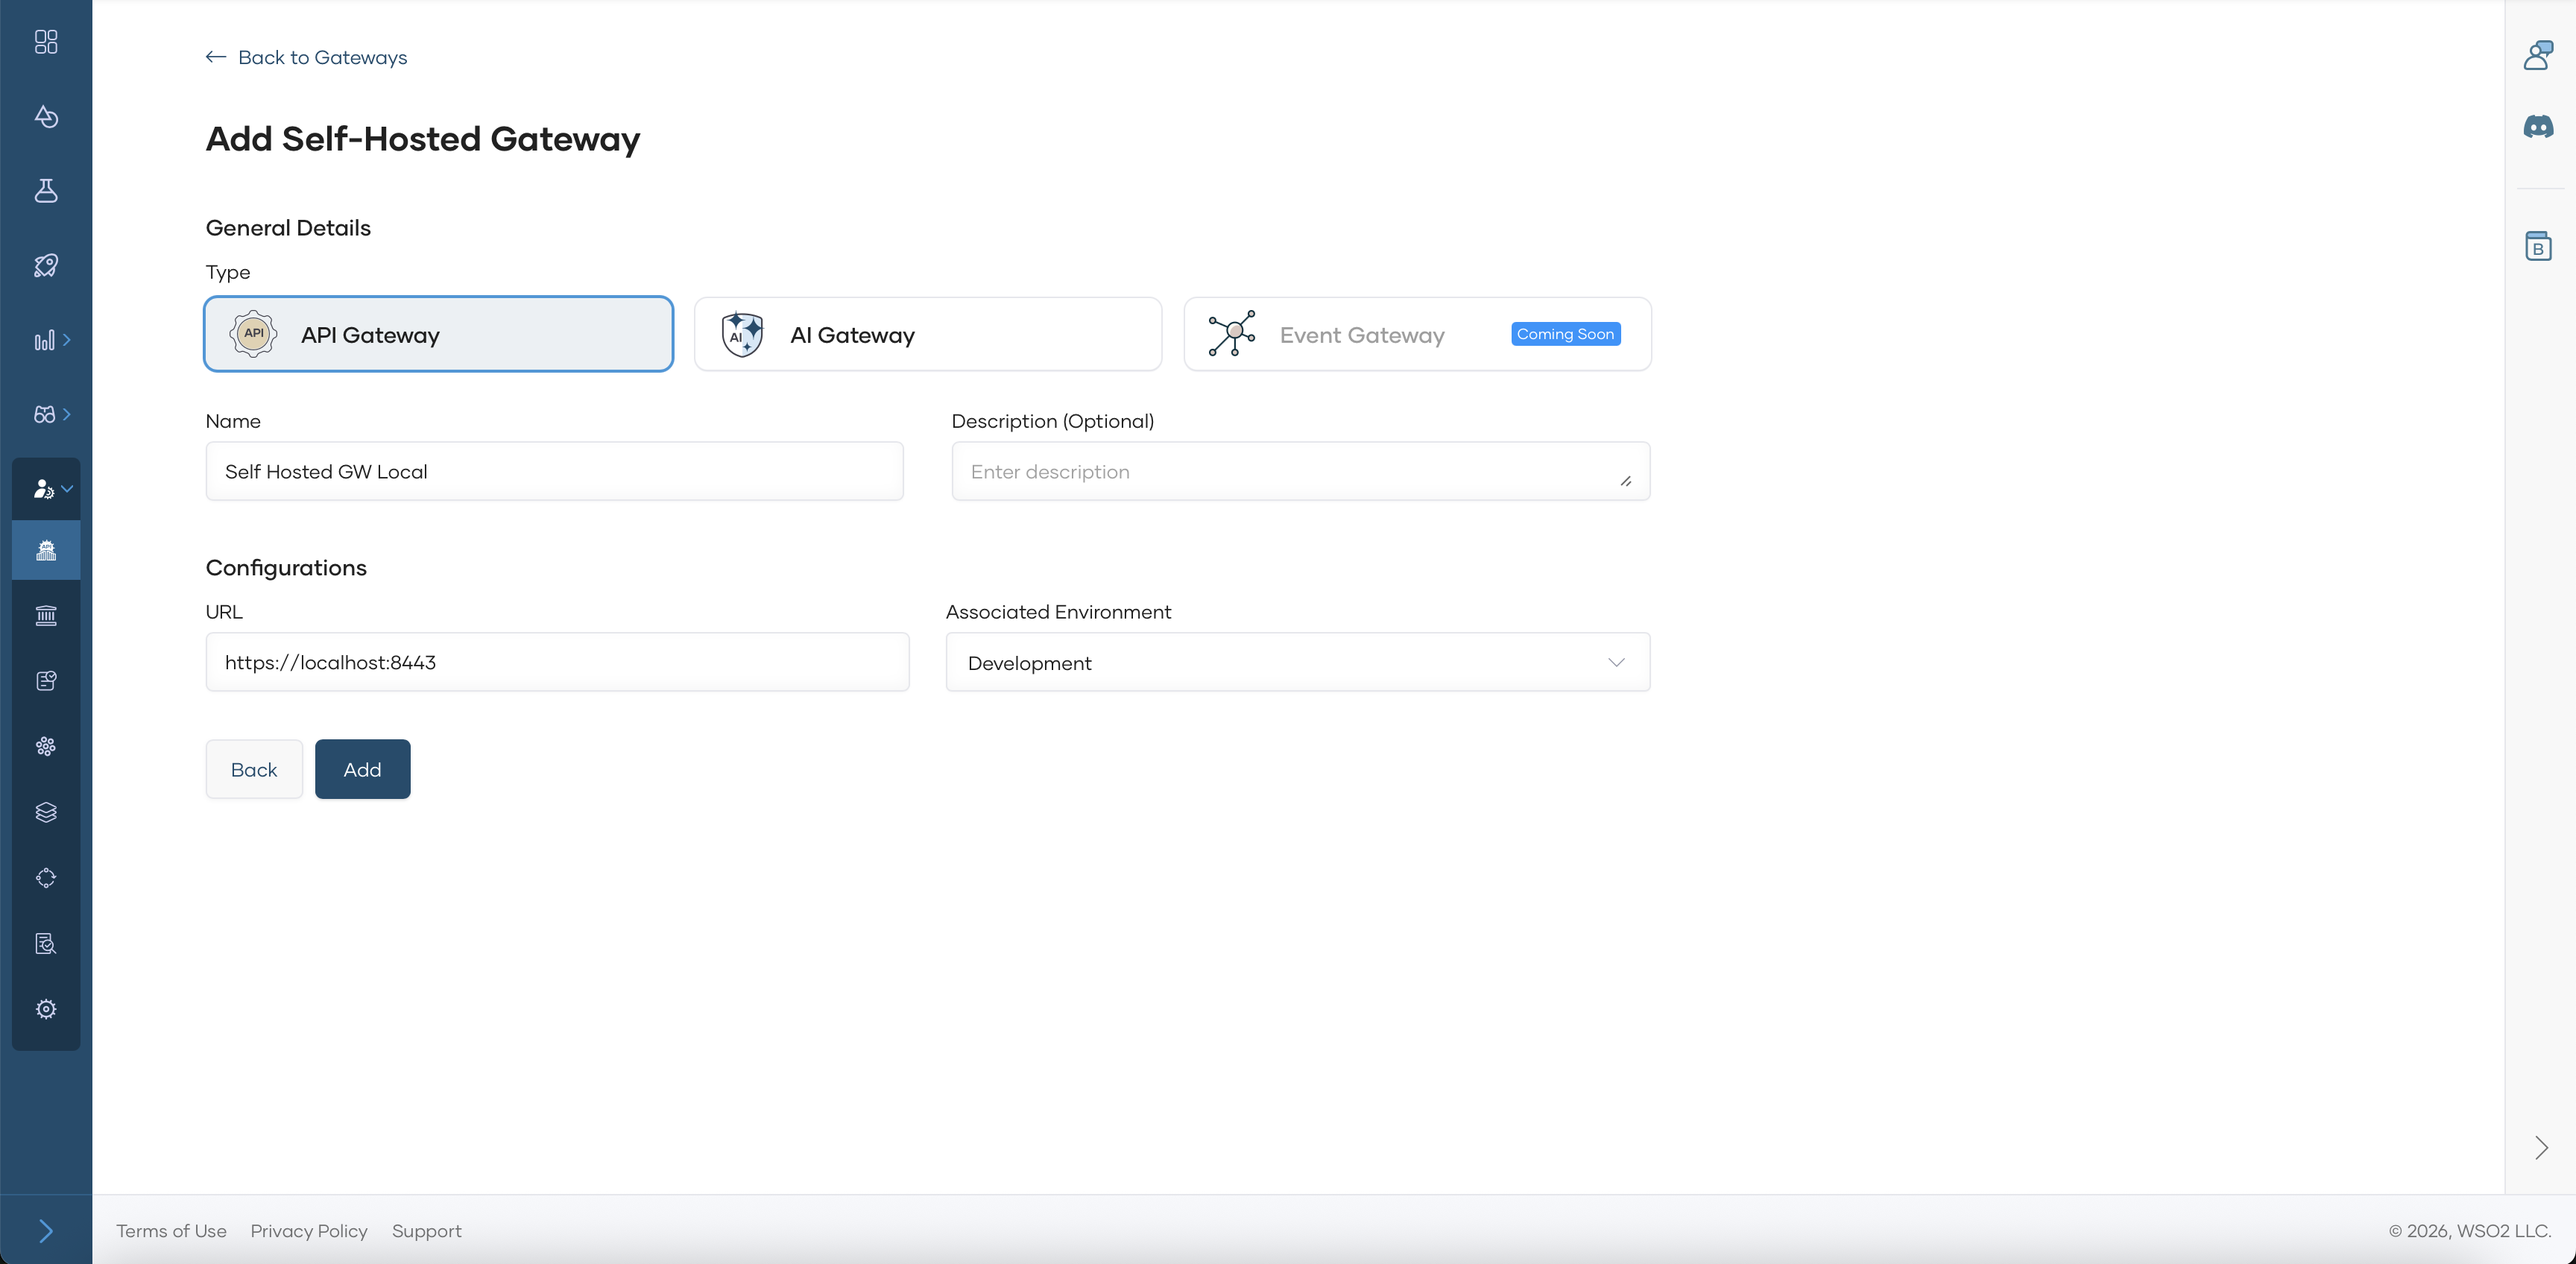
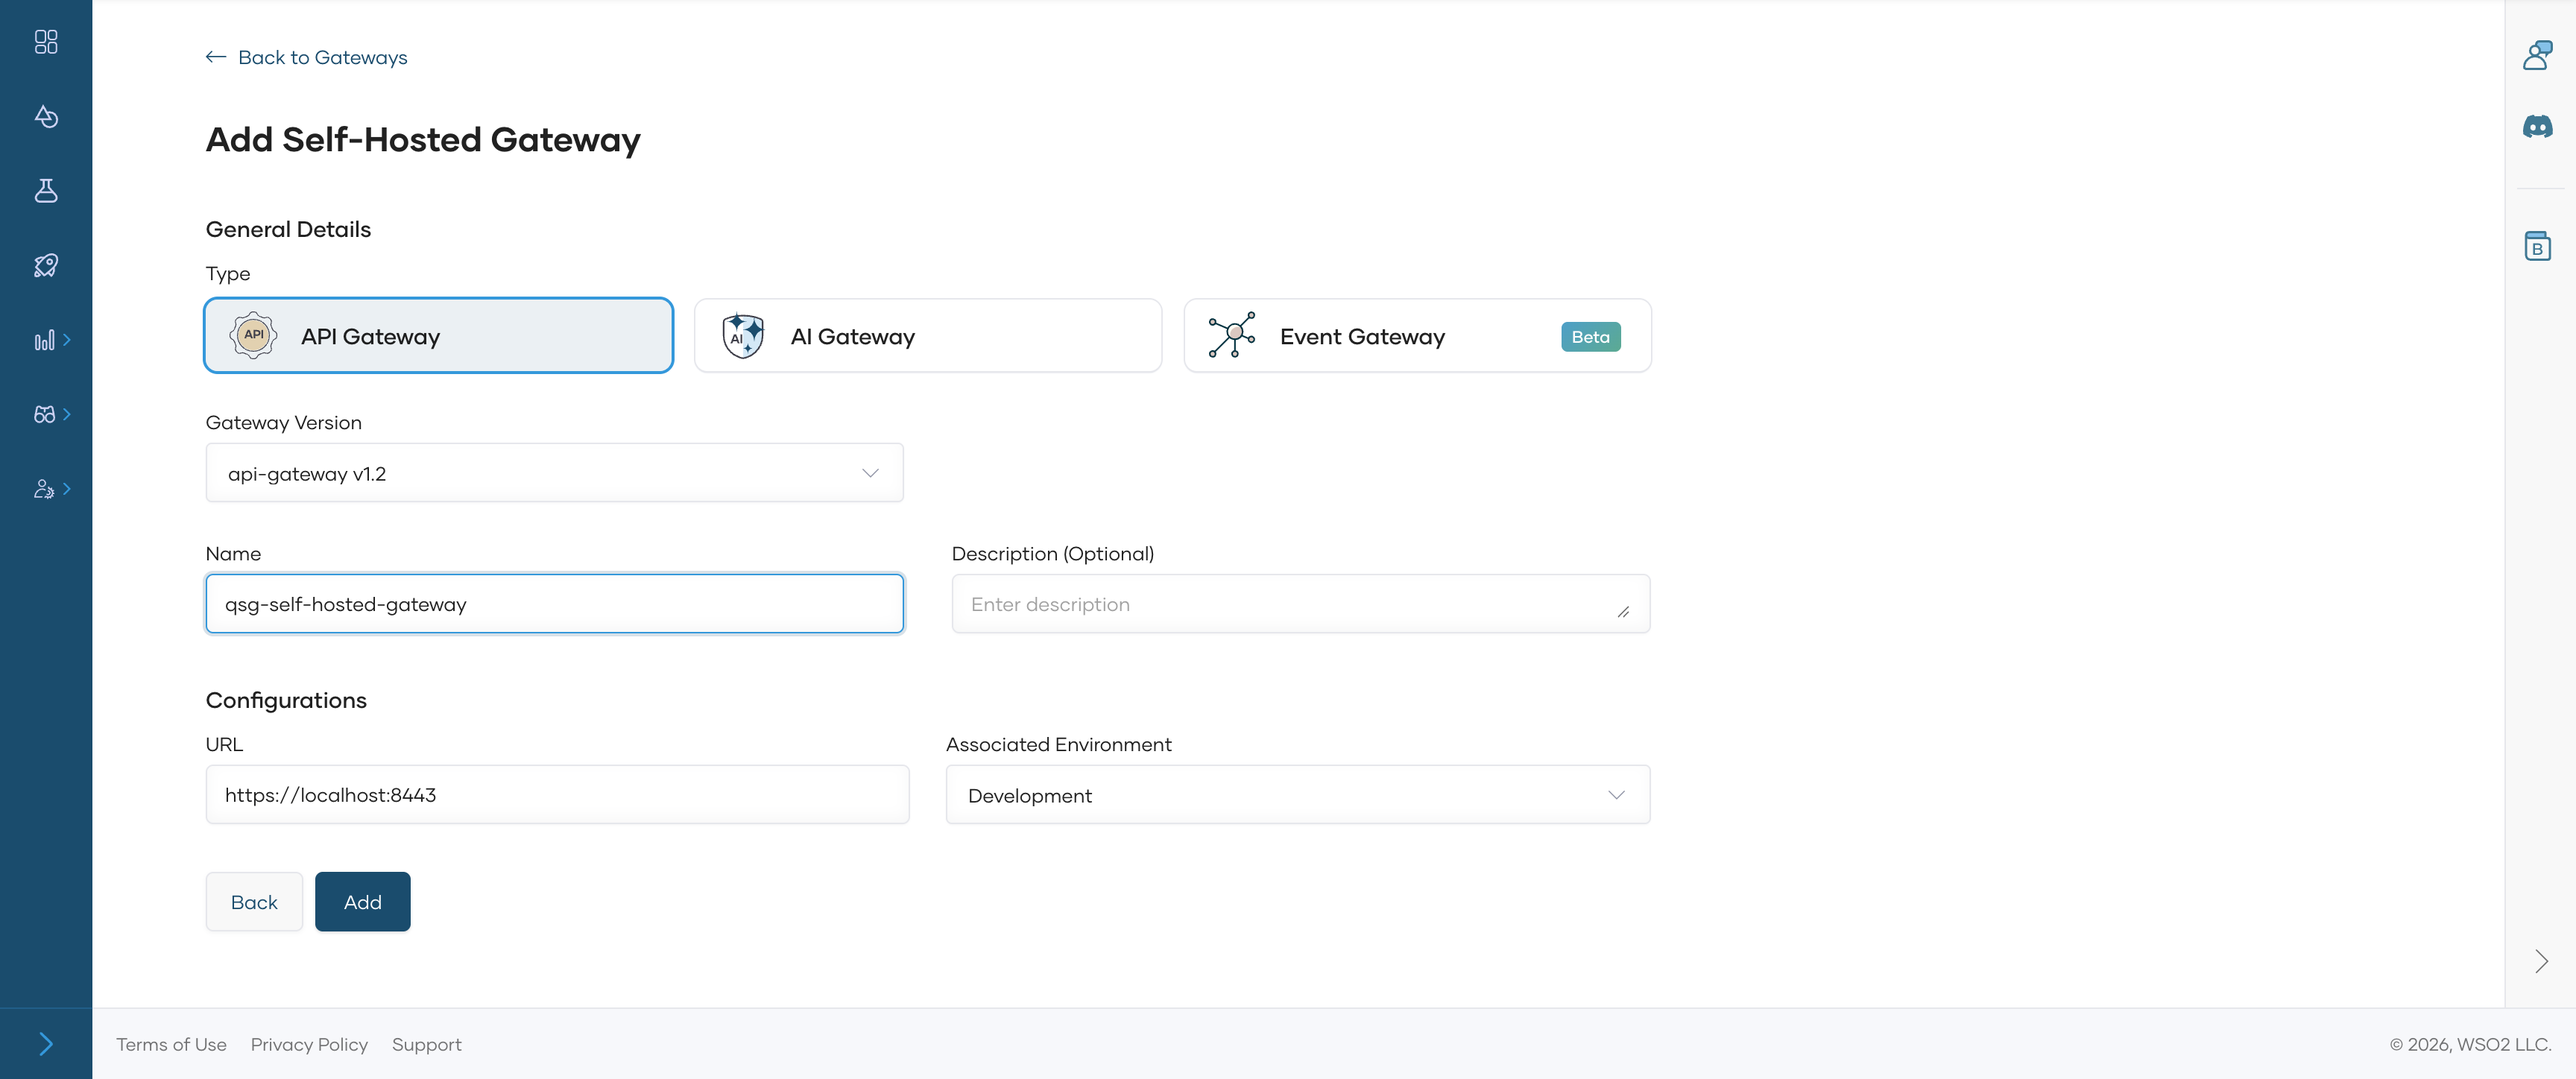
Update quick start guides and images for AI Gateway and API Platform

diff --git a/en/docs/cloud/introduction/quick-start-guide.md b/en/docs/cloud/introduction/quick-start-guide.md
@@ -65,8 +65,8 @@ In this tutorial, you will use API Platform to expose a service as an API proxy 
    ```http
    https://raw.githubusercontent.com/wso2/docs-bijira/refs/heads/main/en/docs/assets/files/sample-api.yaml
    ```
-3. **Create API Proxy from Contract** page will be opened. Click **Create** to complete the API proxy creation process.
-    ![Create API Proxy from Contract form with HTTP type, name Sample API, identifier, version, base path, description, target URL, and External and Internal access mode options](../../assets/img/introduction/create-api-proxy-from-contract.png)
+3. **Create API Proxy from Contract** page will be opened. Under **Gateway Type**, select **WSO2 Managed Gateway**, and then click **Create** to complete the API proxy creation process.
+    ![Create API Proxy from Contract form with name Sample API, identifier, version, base path, description, HTTP type, WSO2 Managed Gateway selected, and target URL](../../assets/img/introduction/create-api-proxy-from-contract.png)
 
 ## Step 3: Test the API Proxy
 
@@ -112,7 +112,7 @@ Now that your API is deployed in both development and production environments an
 
 1. In the left navigation menu, click **Develop** and then click **Lifecycle**. This opens the **Lifecycle** page, where you can see the different lifecycle stages of the API. The current lifecycle stage is **Created**.
 2. Click **Publish**.
-3. In the **Publish API** dialog, click **Confirm** to proceed with publishing the API with the specified display name. If you want to change the display name, make the necessary changes and then click **Confirm**. This changes the API lifecycle state to **Published**.
+3. In the **Publish API** dialog, under **Endpoints**, select the API's URL from the **Production Endpoint URL** list. Then click **Confirm** to proceed with publishing the API with the specified display name. If you want to change the display name, make the necessary changes and then click **Confirm**. This changes the API lifecycle state to **Published**.
 
 You can observe that the API lifecycle stage has changed to **Published**. Now the API is available for consumption. API consumers can consume the API via the API Platform Developer Portal.
 
@@ -122,7 +122,7 @@ You can observe that the API lifecycle stage has changed to **Published**. Now t
 To generate credentials for the published API and invoke it via the Developer Portal, follow these steps.
 
 1. In the **Lifecycle Management** pane, click **Go to DevPortal**. This takes you to the Sample API published to the API Platform Developer Portal.
-    ![Lifecycle page showing API in Published state with lifecycle flow diagram including Created, Pre-released, Published, Deprecated, Blocked, and Retired stages, and Go to Devportal button highlighted](../../assets/img/introduction/go-to-developer-portal.png)
+    ![Lifecycle page showing the API in the Published state, with Created, Pre-released, Published, Deprecated, and Retired stages, and Go to Devportal highlighted](../../assets/img/introduction/go-to-developer-portal.png)
 2. Subscribe to the API and Generate credentials.
     1. In the Developer Portal left navigation menu, click **Applications**.
     2. Click **Create**.

diff --git a/en/docs/cloud/ai-workspace/quickstart.md b/en/docs/cloud/ai-workspace/quickstart.md
@@ -88,16 +88,17 @@ An AI Gateway is the runtime that enforces authentication, rate limits, and guar
 ### Step 3: Register the gateway
 
 1. Navigate to **AI Gateways** in the left navigation menu.
-2. Click **Add AI Gateway**.
+2. Click **Add Gateway**.
 3. Fill in the gateway details:
+    - **Gateway Version**: keep the latest version, for example `AI-Gateway v1.2`.
+    - **Environment**: select **Development**.
     - **Name**: a unique name, for example `dev-ai-gateway`.
     - **Description**: optional.
-    - **URL**: keep the pre-filled `https://localhost:8443`. This is the address the gateway is reachable at once it's running. AI Workspace uses this to build the Invoke URL and MCP Proxy URL you'll call from your own terminal later in this guide. Use an address your terminal can actually reach, not `host.docker.internal`. That hostname only resolves from inside a container, not from your host machine.
-    - **Associated Environment**: select **Development**.
+    - **URL**: enter `https://localhost:8443`. This is the address the gateway is reachable at once it's running. AI Workspace uses this to build the Invoke URL and MCP Proxy URL you'll call from your own terminal later in this guide. Use an address your terminal can actually reach, not `host.docker.internal`. That hostname only resolves from inside a container, not from your host machine.
 
-    ![Add AI Gateway form with a name, the localhost URL, and the Development environment](../../assets/img/ai-gateway/ai-workspace/quickstart/add-ai-gateway-form.png)
+    ![Add AI Gateway form with AI-Gateway v1.2, the Development environment, a name, and the localhost URL](../../assets/img/ai-gateway/ai-workspace/quickstart/add-ai-gateway-form.png)
 
-4. Click **Add Gateway**.
+4. Click **Add AI Gateway**.
 
 !!! note "Environment dropdown empty?"
     The **AI Service** onboarding in Part 1 didn't finish. Complete it in the Console, then come back to this step.

diff --git a/en/docs/cloud/api-platform-gateway/getting-started.md b/en/docs/cloud/api-platform-gateway/getting-started.md
@@ -50,7 +50,7 @@ Before you begin, ensure you have:
     - **URL**: The URL where your gateway will be accessible (e.g., `https://localhost:8443`)
     - **Associated Environment**: Select the environment for this gateway
 
-    ![Add Self-Hosted Gateway form with API Gateway type selected, name, description, URL, and Associated Environment fields](../../assets/img/api-platform-gateway/gateway/gateway-add.png)
+    ![Add Self-Hosted Gateway form with API Gateway type selected, Gateway Version set to api-gateway v1.2, and the name, URL, and environment fields](../../assets/img/api-platform-gateway/gateway/gateway-add.png)
 
 7. Click **Add** and you will be navigated to the Gateway View Page.
 
@@ -62,7 +62,7 @@ Before you begin, ensure you have:
         Be sure to copy the commands from the Quick Start section, since the keys are auto-generated for you.
 
     ![Gateway detail page showing Configurations tab with Quick Start, Virtual Machine, Docker, and Kubernetes tabs and Step 1 download command](../../assets/img/api-platform-gateway/gateway/gateway-view1.png)
-    ![Gateway setup steps 2 and 3 showing configure keys.env and docker compose start commands](../../assets/img/api-platform-gateway/gateway/gateway-view2.png)
+    ![Gateway setup steps 2 to 4 showing the setup script, the api-platform.env configuration command, and the docker compose start command](../../assets/img/api-platform-gateway/gateway/gateway-view2.png)
 
 
     ### Step 1: Download the Gateway

diff --git a/en/docs/cloud/ai-gateway/llm/quick-start-guide.md b/en/docs/cloud/ai-gateway/llm/quick-start-guide.md
@@ -40,17 +40,18 @@ Open [AI Workspace](https://ai-workspace.bijira.dev/) and sign in. Then create a
 ### Step 2: Add a gateway
 
 1. Click **AI Gateways** in the left navigation menu.
-2. Click **Add AI Gateway**.
+2. Click **Add Gateway**.
 3. Fill in the gateway details:
 
     | Field | Value |
     |---|---|
+    | **Gateway Version** | Keep the latest version, for example `AI-Gateway v1.2` |
+    | **Environment** | Select an environment, for example `Development` |
     | **Name** | A unique name for the gateway |
     | **Description** | An optional description of the gateway |
     | **URL** | The gateway URL. The gateway runtime is accessible at this endpoint, for example `https://localhost:8443` |
-    | **Associated Environment** | Select an environment, for example `Development` |
 
-4. Click **Add Gateway**.
+4. Click **Add AI Gateway**.
 
 The gateway detail screen opens. 
 

diff --git a/en/docs/cloud/ai-gateway/mcp/quick-start-guide.md b/en/docs/cloud/ai-gateway/mcp/quick-start-guide.md
@@ -40,17 +40,18 @@ Open [AI Workspace](https://ai-workspace.bijira.dev/) and sign in. Then create a
 ### Step 2: Add a gateway
 
 1. Click **AI Gateways** in the left navigation menu.
-2. Click **Add AI Gateway**.
+2. Click **Add Gateway**.
 3. Fill in the gateway details:
 
     | Field | Value |
     |---|---|
+    | **Gateway Version** | Keep the latest version, for example `AI-Gateway v1.2` |
+    | **Environment** | Select an environment, for example `Development` |
     | **Name** | A unique name for the gateway |
     | **Description** | An optional description of the gateway |
     | **URL** | The gateway URL. The gateway runtime is accessible at this endpoint, for example `https://localhost:8443` |
-    | **Associated Environment** | Select an environment, for example `Development` |
 
-4. Click **Add Gateway**.
+4. Click **Add AI Gateway**.
 
 The gateway detail screen opens.
 
